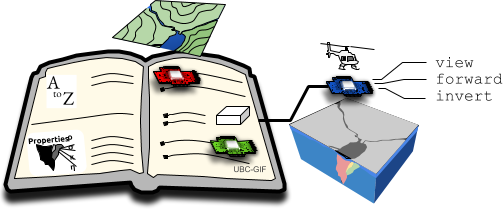
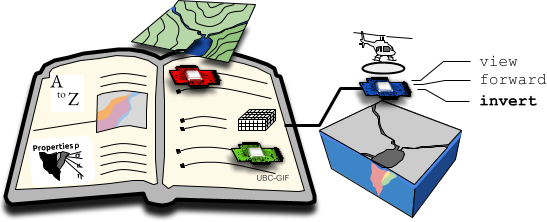
Modify AtoZ landing page

diff --git a/content/AtoZ/AtoZ_index.rst b/content/AtoZ/AtoZ_index.rst
@@ -3,10 +3,52 @@
 A to Z Examples
 ===============
 
+
 What is this?
 -------------
 
-A to Z examples is a collection of step by step tutorials for completing projects using GIFtools. Tutorials include: forward modeling and inverting geophysical data, equivalent source processing and demonstrating the extended functionality provided within GIFtools. Each tutorial is broken down into a set of linear steps and makes use of items from the :ref:`recipes <recipe_index>` section. Any files required to complete the tutorials will be provided as needed through download links. By completing the tutorials from A to Z examples, you will be proficient in using GIFtools to complete other projects.
+A to Z examples is a collection of step by step tutorials for completing
+projects using GIFtools. Tutorials include How-to: forward modeling and inverting
+geophysical data, mesh creation and demonstrating the extended
+functionality provided within GIFtools. Each tutorial is broken down into a
+set of linear steps and makes use of items from the :ref:`recipes
+<recipe_index>` section. Any files required to complete the tutorials will be
+provided as needed through download links. By completing the tutorials from A
+to Z examples, you will be proficient in using GIFtools to complete other
+projects.
+
+.. figure:: ../../images/Cookbook_Landing.png
+   :align: center
+   :scale: 75%
+
+Tutorials are organized by geophysical method:
+
+    .. toctree::
+       :maxdepth: 1
+
+        Gravity: Foward modeling and constrained inversion <gravity/index>
+        Magnetics: Dealing with remanence <magnetic/index>
+        DCIP: Invert with tensor and Octree meshes <DCIP/index>
+        Frequency-EM: Inverting with tiled codes <FEM/index>
+        Time-EM: Inverting in 1D and 3D <TEM/index>
+        MT/ZTEM: Dealing with natural source EM <NS/index>
+
+However, much of the functionality provided within GIFtools is applicable to
+multiple methods (e.g. adding geological constraints to inversions). To alter
+a step in any of the tutorials (e.g. use an OcTree mesh instead of a tensor
+mesh), search the :ref:`recipes <recipe_index>` section or try the search bar.
+
+For consistency, A to Z examples for each geophysical method consider the same
+geological model; the Tli Kwi Cho (TKC) kimberlite complex in NWT, Canada.
+`UBC-GIF <https://gif.eos.ubc.ca>`_ has worked extensively on the TKC area.
+For background about the deposits, the geophysical surveys, and the outcome
+(including a combined petrophysical model), see the `Case History on EM Geosci
+<https://em.geosci.xyz/content/case_histories/do27do18tkc/index.html>`_.
+
+.. _AtoZ_TKCbackground:
+
+Tli Kwi Cho (TKC) Background
+----------------------------
 
 .. figure:: ../../images/TKC_7Steps.png
     :align: right
@@ -14,28 +56,13 @@ A to Z examples is a collection of step by step tutorials for completing project
 
     7-step process applied to TKC kimberlite complex
 
-Tutorials are organized by geophysical method:
-
-    .. toctree::
-       :maxdepth: 1
-
-        Gravity <gravity/index>
-        Magnetics <magnetic/index>
-        Create an octree mesh <exercise1>
-        Forward model a survey <exercise2>
-        Invert for a model <exercise3>
-        Create a model <exercise4>
-
-However, much of the functionality provided within GIFtools is applicable to multiple methods (e.g. adding geological constraints to inversions). To alter a step in any of the tutorials (e.g. use an OcTree mesh instead of a tensor mesh), search the :ref:`recipes <recipe_index>` section or try the search bar.
-
-For consistency, A to Z examples for each geophysical method consider the same geological model; the Tli Kwi Cho (TKC) kimberlite complex in NWT, Canada. `UBC-GIF <https://gif.eos.ubc.ca>`_ has worked extensively on the TKC area. For background about the deposits, the geophysical surveys, and the outcome (including a combined petrophysical model), see the `Case History on EM Geosci <https://em.geosci.xyz/content/case_histories/do27do18tkc/index.html>`_.
-
-.. _AtoZ_TKCbackground:
-
-Tli Kwi Cho (TKC) Background
-----------------------------
-
-The TKC kimberlite complex is being used for A to Z examples because the area has been surveyed with a variety of systems (`see here <https://em.geosci.xyz/content/case_histories/do27do18tkc/survey.html>`_) and drilled extensively. As a result, we have a very good understanding of the geological units which make up the deposit, their margins and their physicals properties. The average density, susceptibility and electrical conductivity for geological units at TKC is shown in the table below.
+The TKC kimberlite complex is being used for A to Z examples because the area
+has been surveyed with a variety of systems (`see here
+<https://em.geosci.xyz/content/case_histories/do27do18tkc/survey.html>`_) and
+drilled extensively. As a result, we have a very good understanding of the
+geological units which make up the deposit, their margins and their physicals
+properties. The average density, susceptibility and electrical conductivity
+for geological units at TKC is shown in the table below.
 
 **NOTE:** Density is relative to background
 
